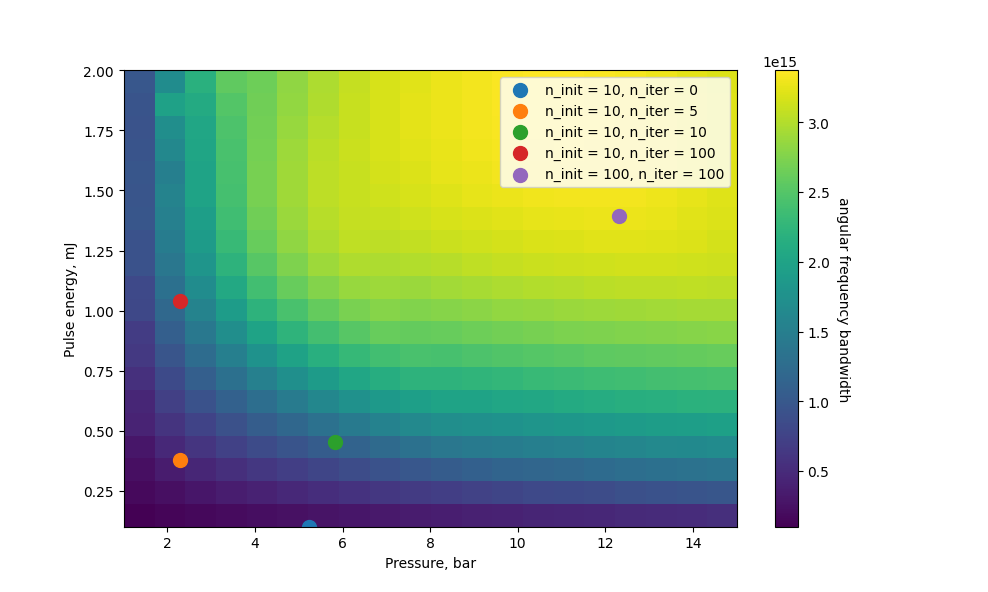
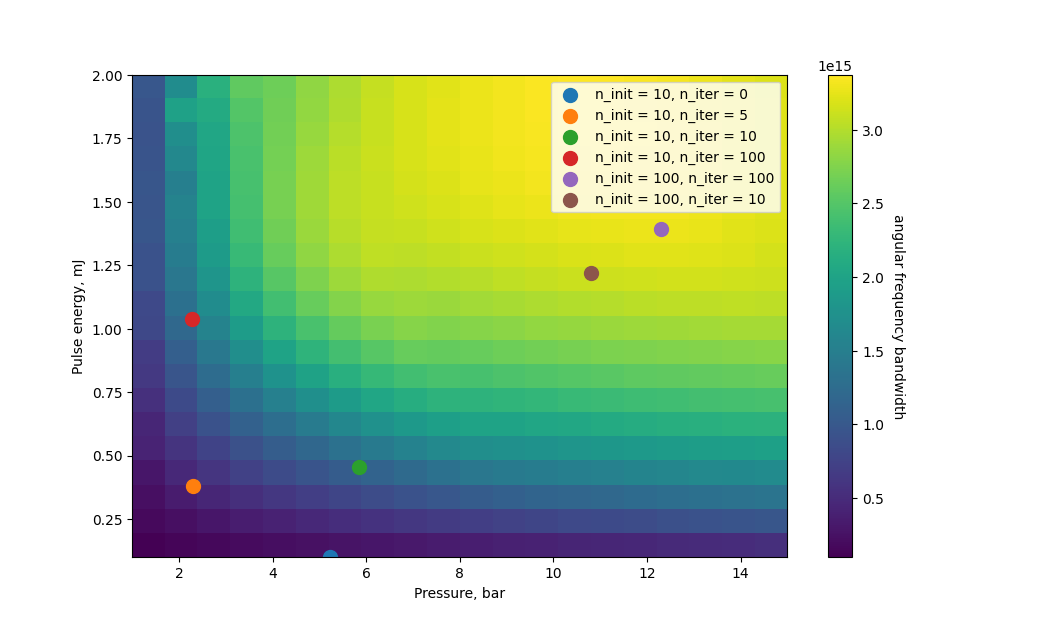
Updated plot if energy vs pressure vs BO

diff --git a/HCF sim/Python/building datasets/angfreq_bandwidth/plots/energy_pressure_vs_BO.py b/HCF sim/Python/building datasets/angfreq_bandwidth/plots/energy_pressure_vs_BO.py
@@ -25,7 +25,7 @@ params=["pressure", "energy"]
 initial_values_HCF=[125e-6, 1, "Ne", 2.340607, 800e-9, 0, 0.5e-3]
 τfwhm = 30e-15 # FWHM durations of the pump pulse
 
-Luna_BO(params, initial_values_HCF, Gaussian=True, FWHM=τfwhm, function=max_bandwidth, init_points=100, n_iter=100)
+Luna_BO(params, initial_values_HCF, Gaussian=True, FWHM=τfwhm, function=max_bandwidth, init_points=100, n_iter=10)
 """
 # Then plot point found by BO onto the figure
 # After init_points=10, n_iter=0: (Random search)
@@ -53,6 +53,12 @@ width100_rep = 1.8086057420846162e-07
 energy100_rep = 0.0013934507706072274
 pressure100_rep = 12.303031785957677
 
+# After init_points=100, n_iter=10:
+width10_rep = 1.8086056416836752e-07
+energy10_rep = 0.0012196805201162401
+pressure10_rep = 10.796617040293036
+
+
 num_points = 20
 widths_shaped = np.zeros((num_points,num_points))
 for i in range(num_points):
@@ -71,6 +77,7 @@ plt.scatter(pressure5, energy5*(10**3), s=100, marker='o', label='n_init = 10, n
 plt.scatter(pressure10, energy10*(10**3), s=100, marker='o', label='n_init = 10, n_iter = 10')
 plt.scatter(pressure100, energy100*(10**3), s=100, marker='o', label='n_init = 10, n_iter = 100')
 plt.scatter(pressure100_rep, energy100_rep*(10**3), s=100, marker='o', label='n_init = 100, n_iter = 100')
+plt.scatter(pressure10_rep, energy10_rep*(10**3), s=100, marker='o', label='n_init = 100, n_iter = 10')
 plt.legend()
 
 plt.show()
